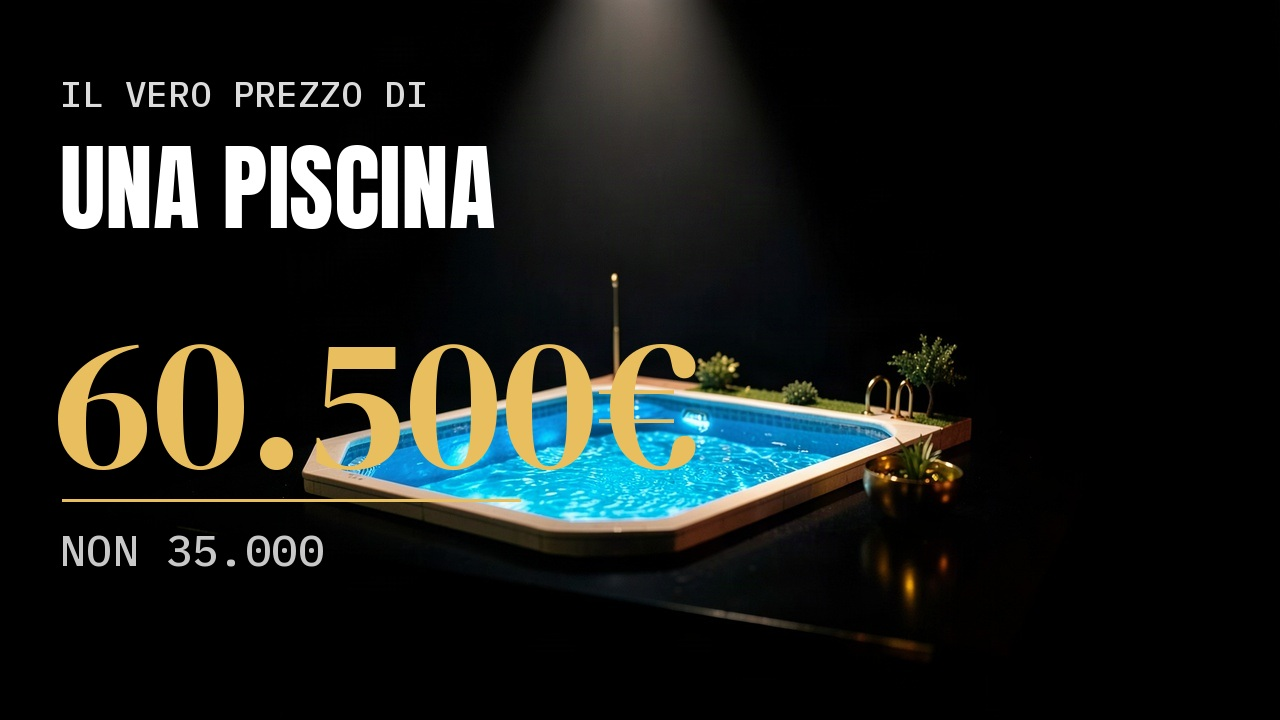
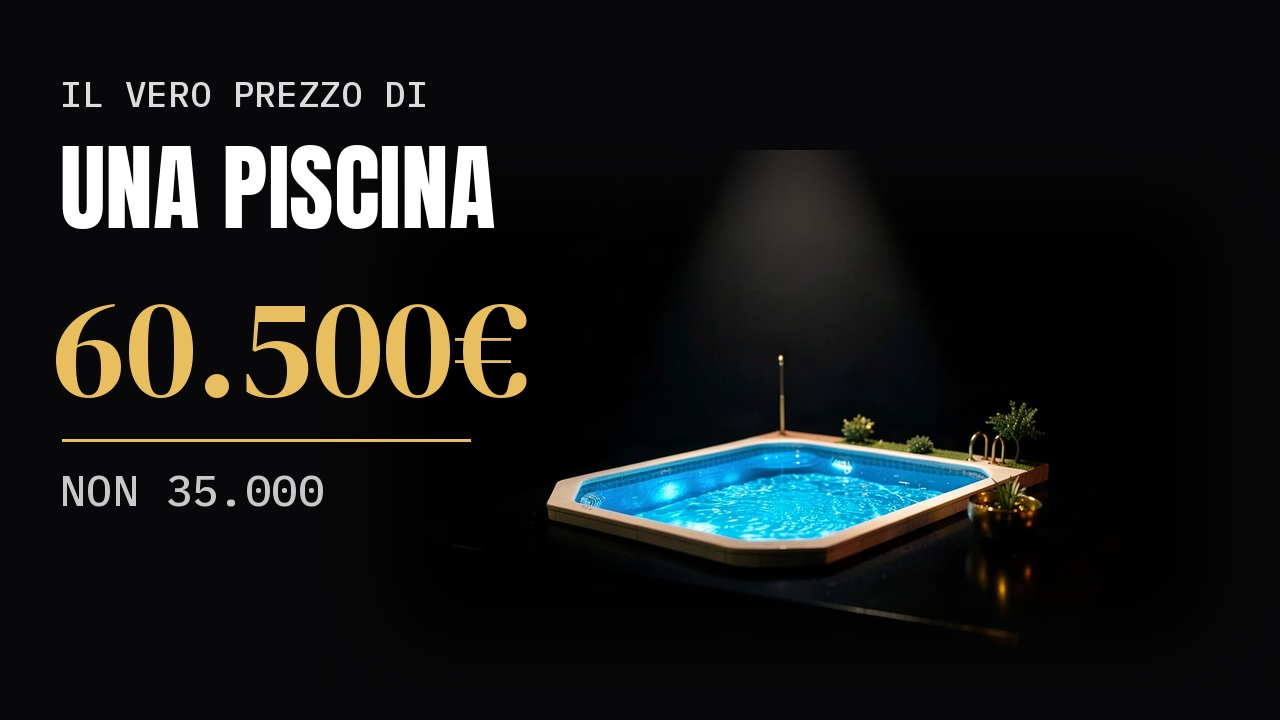
Costo Vero: copertine nuove sistemate (noir: piscina a destra; progetto: quote leggibili)
Claude-Session: https://claude.ai/code/session_013ApoDmMcM7xnohpDpgQ76W

diff --git a/strumenti/copertine_costo_vero_concetti.py b/strumenti/copertine_costo_vero_concetti.py
@@ -99,6 +99,7 @@ def main():
             d.text((40, 250), '60.500 €', font=F(FM, 150), fill=(230, 20, 30), stroke_width=4, stroke_fill=BI)
             d.text((60, 470), 'in 10 anni!', font=F(FM, 70), fill=BI, stroke_width=5, stroke_fill=INK)
         elif nome == 'noir':   # buio, un solo faro, cifra in oro: elegante e "da documentario"
+            p_ = im.convert('RGB').resize((960, 540), Image.LANCZOS); im = Image.new('RGBA', (1280, 720), (8, 8, 10, 255)); mk = Image.new('L', (960, 540), 0); ImageDraw.Draw(mk).rectangle((60, 40, 900, 500), fill=255); im.paste(p_, (320, 150), mk.filter(ImageFilter.GaussianBlur(45))); d = ImageDraw.Draw(im)   # la piscina tutta a destra, la scritta non la tocca
             lay = Image.new('RGBA', im.size, (0, 0, 0, 0)); dl = ImageDraw.Draw(lay)
             for k in range(60):
                 dl.rectangle((0, 0, 620 - k * 4, 720), fill=(0, 0, 0, 3))
@@ -106,23 +107,23 @@ def main():
             ORO = (232, 190, 95)
             d.text((60, 70), 'IL VERO PREZZO DI', font=F(FMONO, 36), fill=(220, 220, 220))
             d.text((60, 115), 'UNA PISCINA', font=F(FA, 96), fill=BI)
-            d.text((52, 270), '60.500€', font=F(FS, 190), fill=ORO)
-            d.line((62, 500, 520, 500), fill=ORO, width=3)
-            d.text((60, 520), 'NON 35.000', font=F(FMONO, 44), fill=(200, 200, 200))
+            d.text((52, 250), '60.500€', font=F(FS, 140), fill=ORO)
+            d.line((62, 440, 470, 440), fill=ORO, width=3)
+            d.text((60, 460), 'NON 35.000', font=F(FMONO, 44), fill=(200, 200, 200))
         else:   # progetto tecnico con le voci di costo come quote del disegno
             AZ = (235, 245, 255)
             voci = [('COPERTURA', '4.000 €', (1000, 200)), ('SCAVO E VASCA', '35.000 €', (820, 320)), ('POMPA E FILTRI', '13.000 €', (980, 430)), ('PRODOTTI', '6.000 €', (860, 520))]
-            ys = [150, 250, 350, 450]
+            ys = [135, 220, 305, 390]
             for (n_, v_, p_), y in zip(voci, ys):
                 d.line((330, y + 30, p_[0], p_[1]), fill=AZ, width=2); d.ellipse((p_[0] - 7, p_[1] - 7, p_[0] + 7, p_[1] + 7), outline=AZ, width=3)
                 d.text((40, y), n_, font=F(FMONO, 26), fill=AZ)
-                d.text((40, y + 30), v_, font=F(FA, 50), fill=BI)
+                d.text((40, y + 28), v_, font=F(FA, 44), fill=BI)
             lay = Image.new('RGBA', (560, 170), (0, 0, 0, 0)); dl = ImageDraw.Draw(lay)
             dl.rounded_rectangle((8, 8, 552, 162), 10, outline=(230, 40, 50), width=8)
             dl.text((280, 52), 'COSTO VERO', font=F(FMONO, 34), fill=(230, 40, 50), anchor='mm')
             dl.text((280, 112), '60.500 €', font=F(FA, 80), fill=(230, 40, 50), anchor='mm')
             lay = lay.rotate(8, expand=True, resample=Image.BICUBIC)
-            im.alpha_composite(lay, (20, 455))
+            im.alpha_composite(lay, (20, 480))
             d.text((40, 40), 'PISCINA', font=F(FA, 84), fill=BI)
         im.convert('RGB').save(os.path.join(OUT, nome + '.jpg'), quality=94)
         print('FATTO', nome, flush=True)
